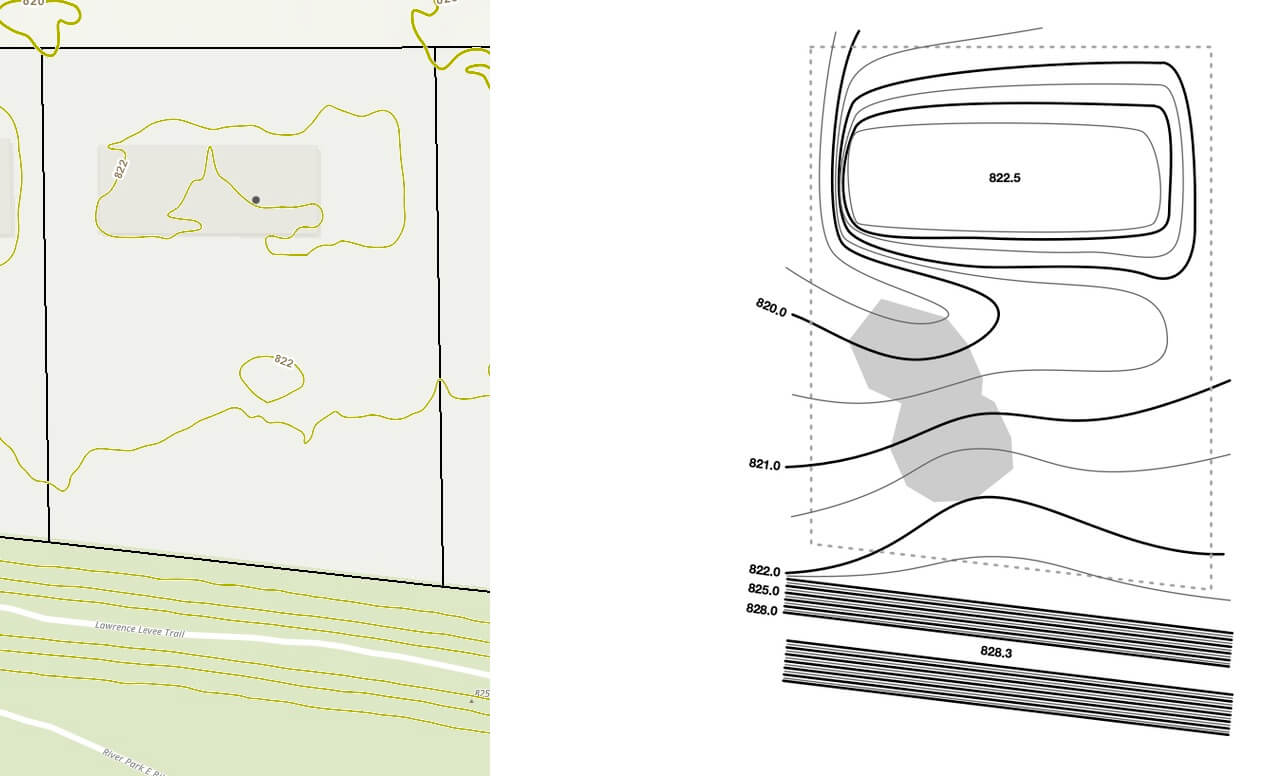
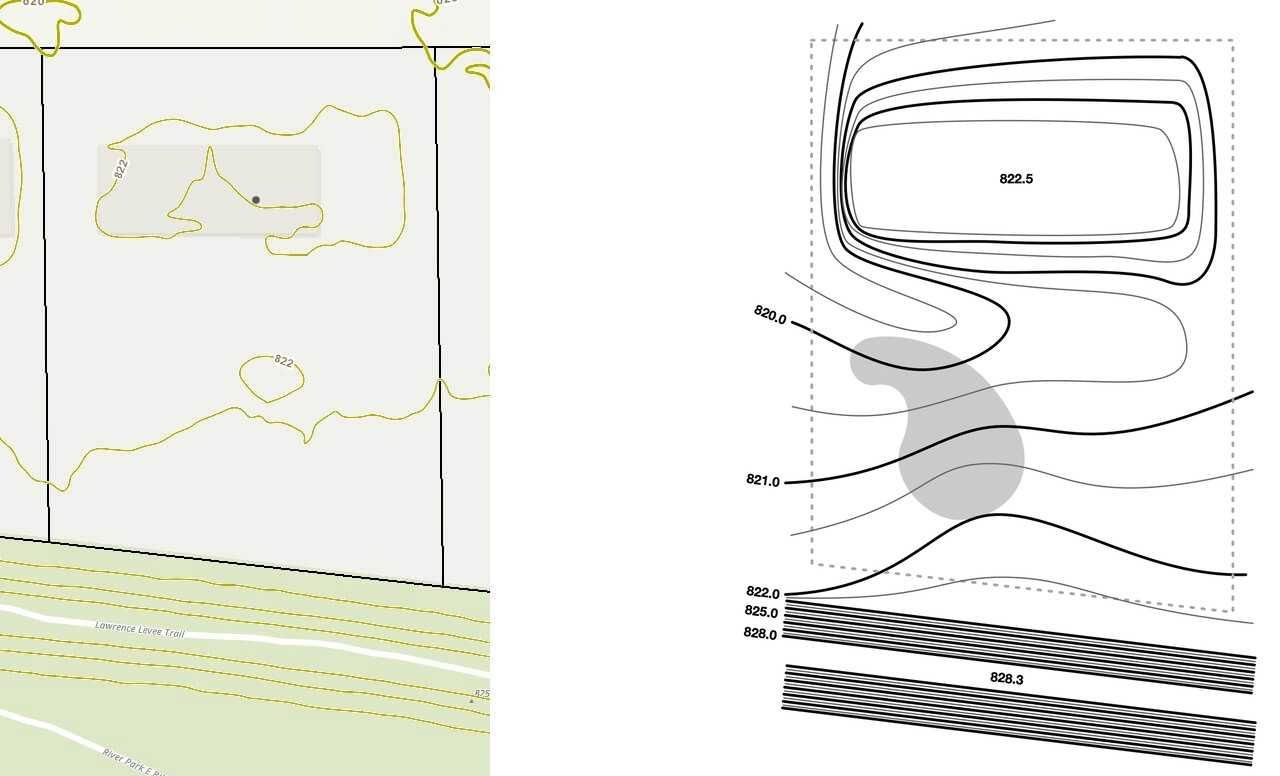
Update pool shape

diff --git a/README.md b/README.md
@@ -39,9 +39,9 @@ The property lies in Zone X of the FEMA - Flood Insurance Rate Map (FIRM). Zone 
 
 #### Excavations
 
-The excavations at the closest point are approximately 32' from the toe and 52' from the top of the Kansas River levee, with surface elevations between 6 and 7.5 feet below the top of the levee. The top of the levee is approximately 828.0 feet above sea level and the ground surface elevation along the landward toe of the levee is approximately 822.0 feet above sea level.
+The excavations at the closest point are approximately 31' from the toe and 51' from the top of the Kansas River levee, with surface elevations between 6 and 7.5 feet below the top of the levee. The top of the levee is approximately 828.3 feet above sea level and the ground surface elevation along the landward toe of the levee is approximately 822.3 feet above sea level.
 
-![Site Excavations](https://raw.githubusercontent.com/nathancolgate/corps-of-engineers-pool-report/master/excavation_detail.jpg)
+![Site Excavations](https://raw.githubusercontent.com/nathancolgate/corps-of-engineers-pool-report/master/excavation_detail.png)
 <small>_Figure: Excavation detail._</small>
 
 ![Site Elevations](https://raw.githubusercontent.com/nathancolgate/corps-of-engineers-pool-report/master/site_elevations.jpg)
